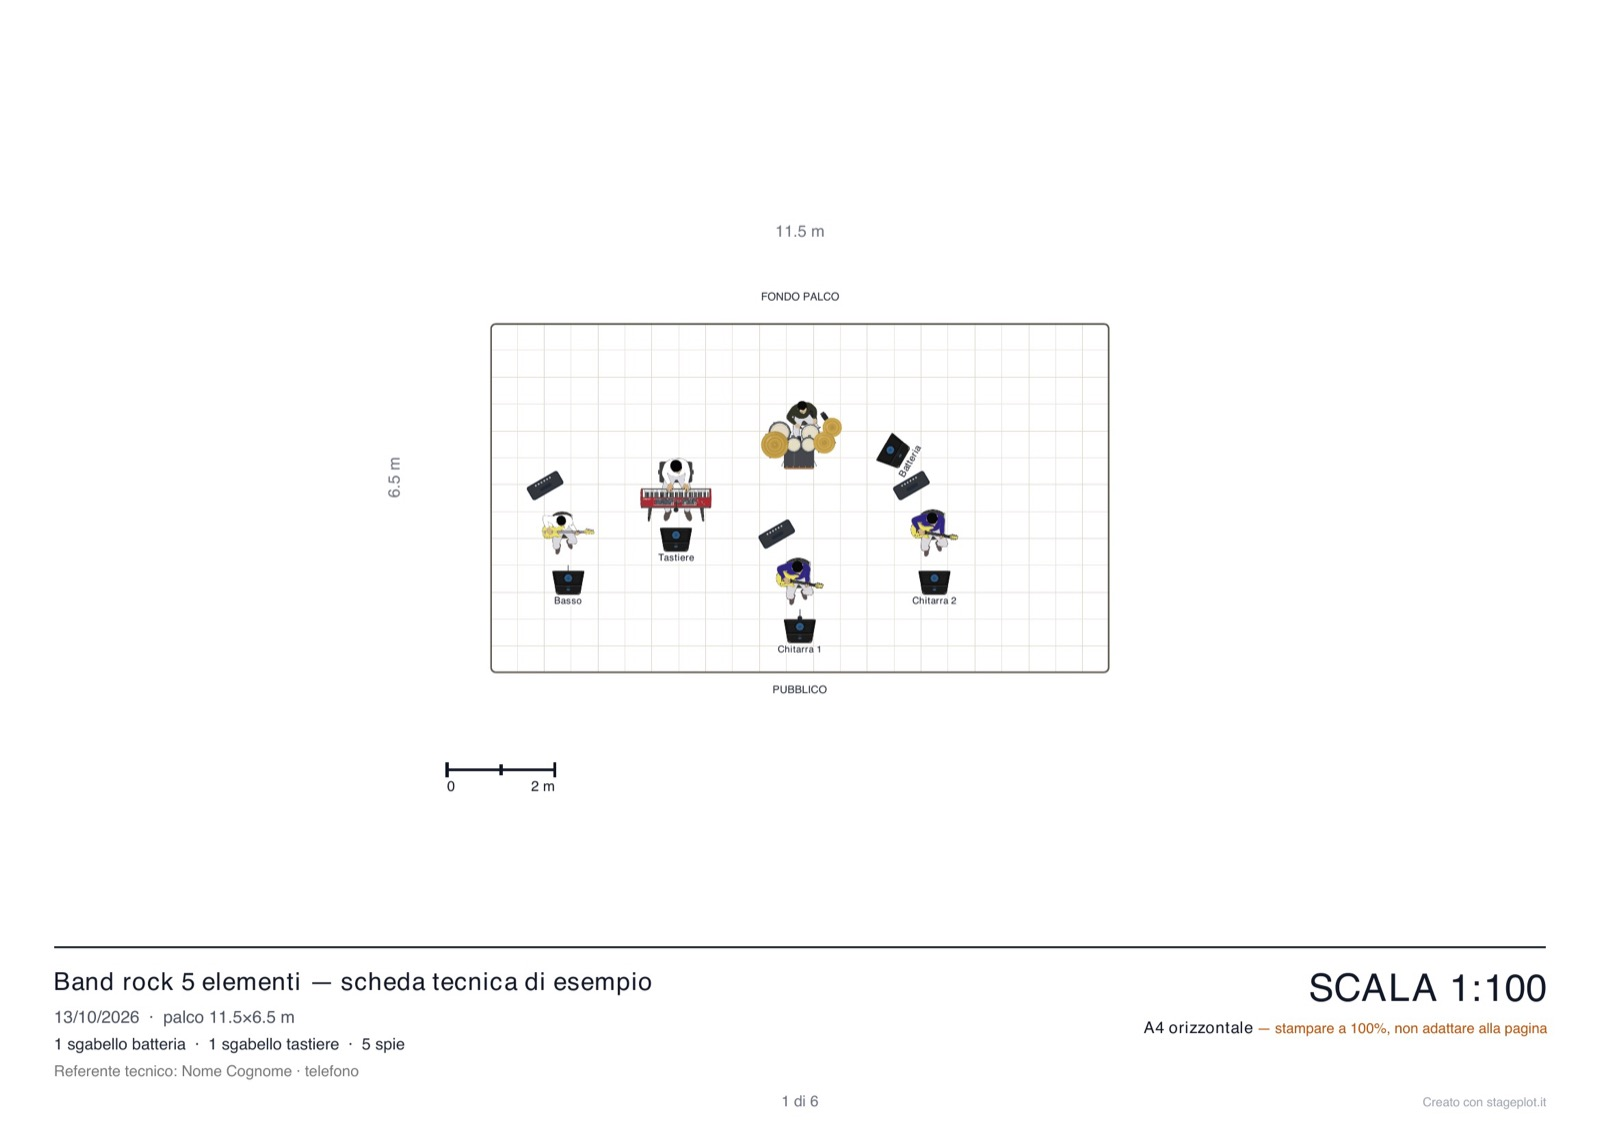
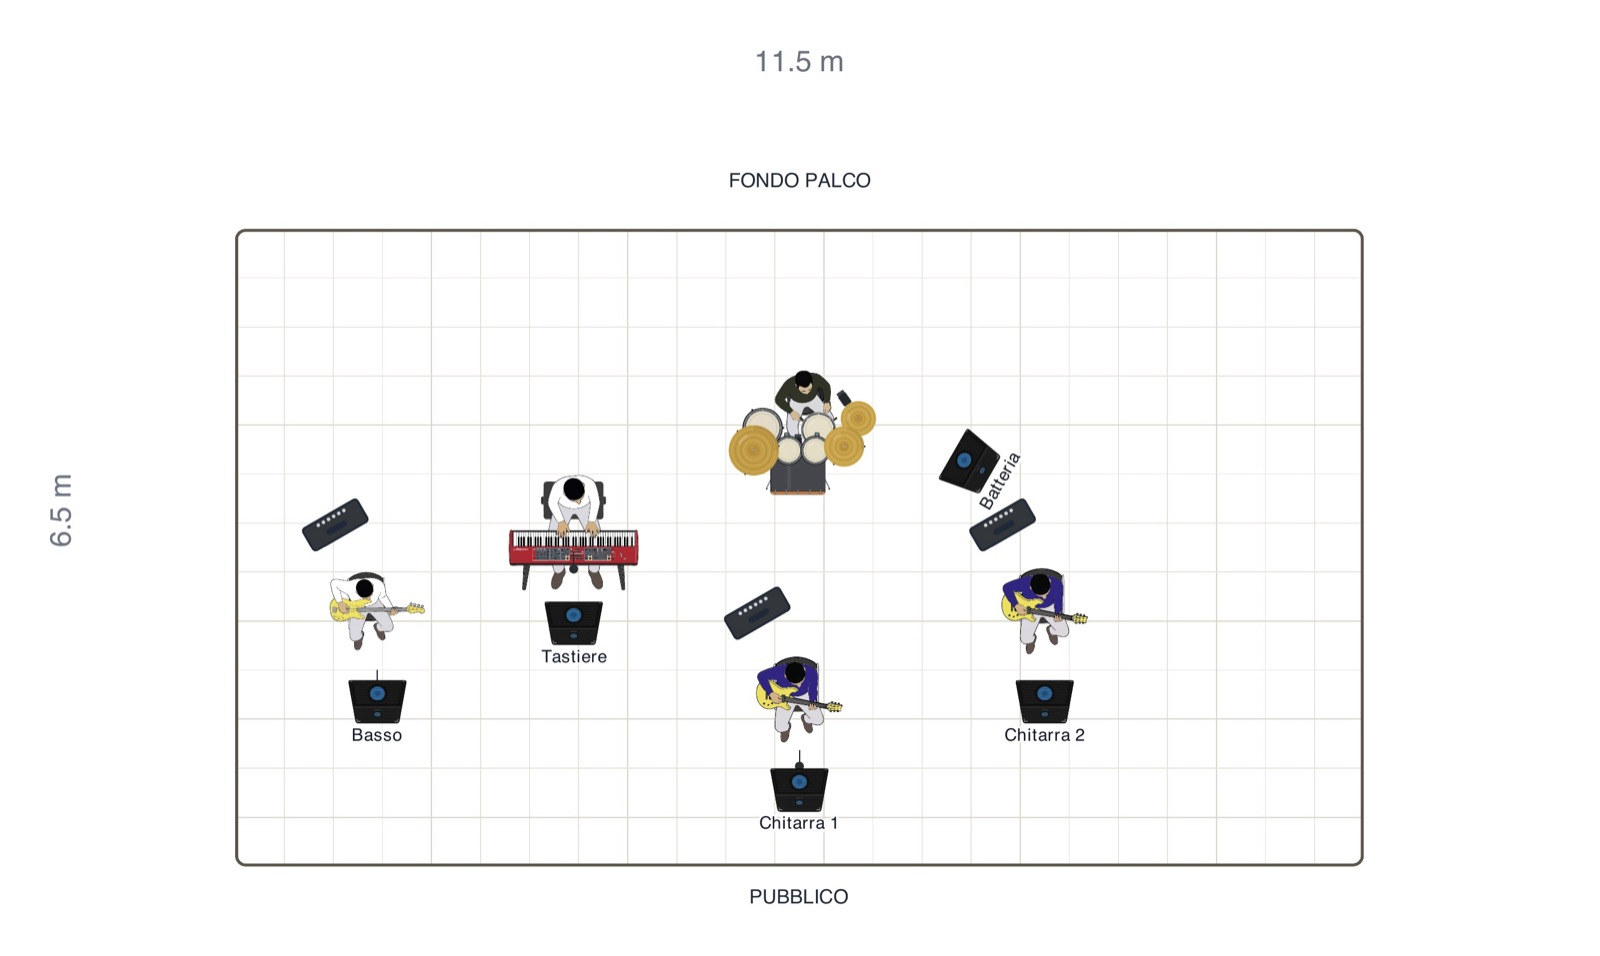
fix(landing): apertura ritagliata sul palco, senza ingrandimento in CSS
Il palco occupava poco più di un terzo della pagina 1 del PDF d'esempio: su computer l'apertura mostrava soprattutto carta bianca. Ora l'immagine è ritagliata sul palco (zona quote–PUBBLICO, 1600×956) e il ritaglio CSS solo-telefono è tolto (avrebbe tagliato il palco). Test aggiornato e provato con mutazione (misure vecchie → rosso).

Claude-Session: https://claude.ai/code/session_01H7zvGjSjpiopzK3K1LPXiV

diff --git a/index.html b/index.html
@@ -144,7 +144,7 @@ addEventListener("hashchange", go);})();</script>
       "inLanguage": "it",
       "isPartOf": { "@id": "https://stageplot.it/#website" },
       "about": { "@id": "https://stageplot.it/#app" },
-      "primaryImageOfPage": { "@type": "ImageObject", "url": "https://stageplot.it/img/esempio-band-rock-apertura.jpg", "width": 1600, "height": 1131 },
+      "primaryImageOfPage": { "@type": "ImageObject", "url": "https://stageplot.it/img/esempio-band-rock-apertura.jpg", "width": 1600, "height": 956 },
       "datePublished": "2026-08-08",
       "dateModified": "2026-10-23"
     },
@@ -274,8 +274,6 @@ addEventListener("hashchange", go);})();</script>
     section{padding-block:36px}
     .hero{padding-top:24px}
     .foglio{margin-top:24px;padding:10px 10px 8px}
-    .foglio .ritaglio{overflow:hidden;aspect-ratio:8/5;border-radius:4px}
-    .foglio .ritaglio img{width:176%;max-width:none;margin:-20% 0 0 -38%;border-radius:0}
     .passi,.chi,.regole{grid-template-columns:1fr}
     .passi{gap:10px;margin-top:20px}
     .passi li{padding:14px 16px}
@@ -319,7 +317,7 @@ addEventListener("hashchange", go);})();</script>
       </div>
       <div class="fatti"><span>Gratis</span><span>In italiano</span><span>Senza account</span><span>Nessuna filigrana</span></div>
       <figure class="foglio">
-        <div class="ritaglio"><img src="/img/esempio-band-rock-apertura.jpg" width="1600" height="1131" fetchpriority="high" decoding="async"
+        <div class="ritaglio"><img src="/img/esempio-band-rock-apertura.jpg" width="1600" height="956" fetchpriority="high" decoding="async"
           alt="Prima pagina della scheda tecnica d'esempio «Band rock 5 elementi»: lo stage plot visto dall'alto, su un palco di 11,5 per 6,5 metri, con batteria al centro, tastiere, due chitarre e basso, ognuno con la sua spia, scala 1:100."></div>
         <figcaption><span><b>Band rock · 5 elementi</b> · scheda tecnica di esempio fatta con StagePlot</span><span>palco 11,5 × 6,5 m · scala 1:100</span></figcaption>
       </figure>
